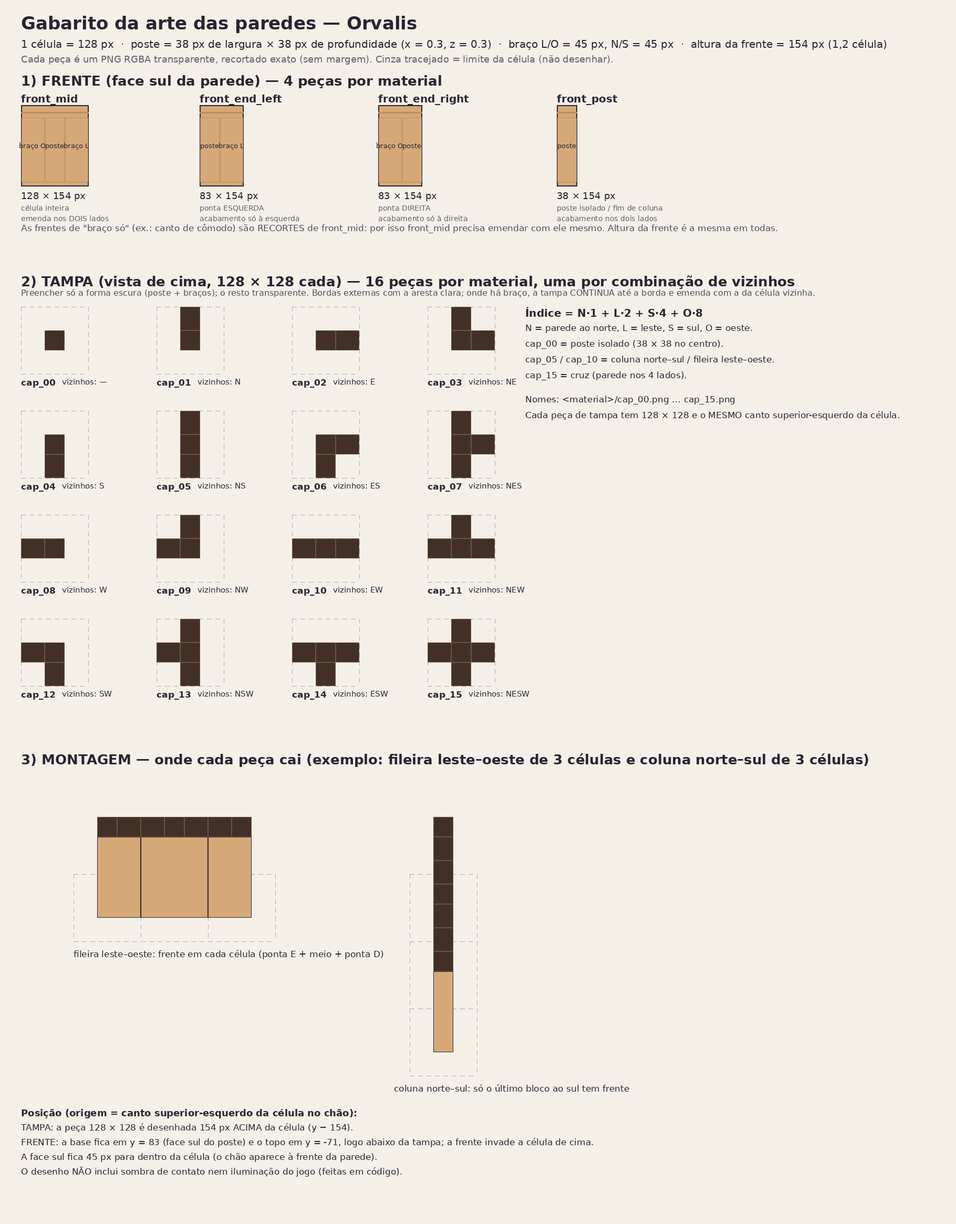
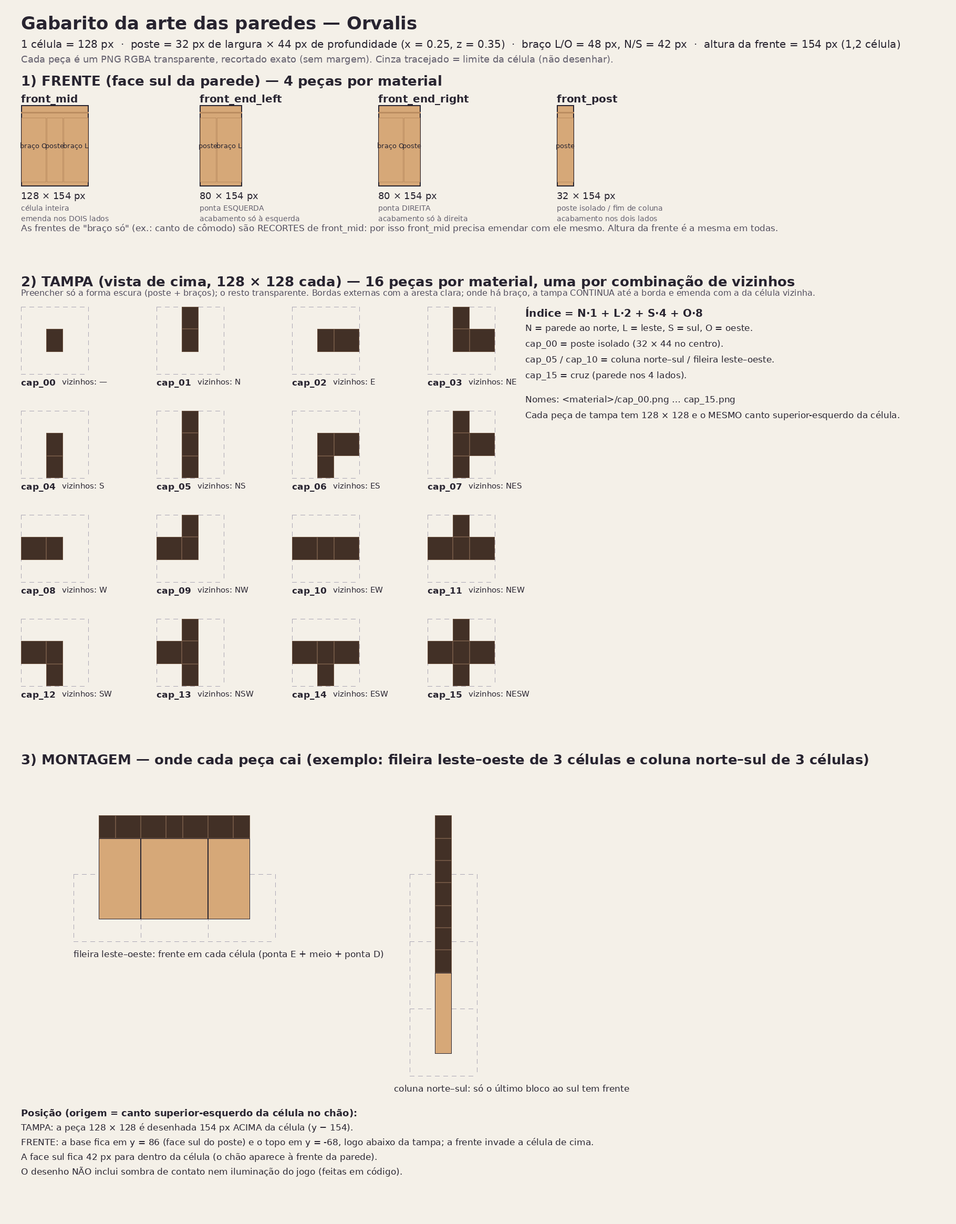
Orvalis v0.93.18: espessura das paredes fechada em 0,25 / 0,35 e contrato gerado
O dono do produto fechou a espessura (faixas e poste 0,25; tampa 0,35). O padrao do
codigo muda e o gabarito e o CONTRATO.md sao regerados com a medida (poste 32 x 44
px, bracos 48 e 42, frente 154). O contrato passa a ser gerado de CONTRATO.tpl.md
por make-wall-guide.py, para os numeros nunca divergirem do codigo.

Claude-Session: https://claude.ai/code/session_01KGdgomm438trDHTLPLqJmv

diff --git a/src/world/walls.test.ts b/src/world/walls.test.ts
@@ -1,7 +1,7 @@
 import { describe, expect, it } from 'vitest';
 import {
   clampWallThickness, DEFAULT_WALL_THICKNESS, parseWallThickness,
-  CAP_E, CAP_N, CAP_S, CAP_W, INNER_NE, INNER_NW, INNER_SE, INNER_SW, WALL_CAP_PIECES, WALL_THICKNESS,
+  CAP_E, CAP_N, CAP_S, CAP_W, INNER_NE, INNER_NW, INNER_SE, INNER_SW, WALL_CAP_PIECES,
   wallCapMask, wallFront, wallFootprint, wallFrontRanges, wallInnerCorners, wallNeighbors, wallPiece, wallThin,
 } from './walls';
 
@@ -82,12 +82,15 @@ describe('autotile das paredes (ADR 0027)', () => {
   describe('placa fina (geometria do autotile)', () => {
     const area = (rs: Array<{ x0: number; x1: number; z0: number; z1: number }>) => rs.reduce((a, r) => a + (r.x1 - r.x0) * (r.z1 - r.z0), 0);
     const nbOf = (rows: string[], x: number, y: number) => wallNeighbors(grid(rows), x, y);
-    const C0 = (1 - WALL_THICKNESS) / 2;
-    const C1 = (1 + WALL_THICKNESS) / 2;
+    const { x: TX, z: TZ } = DEFAULT_WALL_THICKNESS;
+    const C0 = (1 - TX) / 2;
+    const C1 = (1 + TX) / 2;
+    const Z0 = (1 - TZ) / 2;
+    const Z1 = (1 + TZ) / 2;
 
     it('poste isolado: um quadrado fino no centro da célula', () => {
       const f = wallFootprint(nbOf(['.#.'], 1, 0));
-      expect(f).toEqual([{ x0: C0, x1: C1, z0: C0, z1: C1 }]);
+      expect(f).toEqual([{ x0: C0, x1: C1, z0: Z0, z1: Z1 }]);
       expect(wallFrontRanges(nbOf(['.#.'], 1, 0))).toEqual([[C0, C1]]);
     });
 
@@ -115,8 +118,8 @@ describe('autotile das paredes (ADR 0027)', () => {
       const f = wallFootprint(cross);
       expect(f).toHaveLength(5);
       for (const r of f) { expect(r.x0).toBeGreaterThanOrEqual(0); expect(r.x1).toBeLessThanOrEqual(1); expect(r.z0).toBeGreaterThanOrEqual(0); expect(r.z1).toBeLessThanOrEqual(1); }
-      const T2 = WALL_THICKNESS;
-      expect(area(f)).toBeCloseTo(T2 * T2 + 4 * T2 * (1 - T2) / 2, 9); // poste + 4 braços de (1 − T)/2
+      // poste + 2 braços norte/sul (x × (1 − z)/2) + 2 braços leste/oeste (z × (1 − x)/2)
+      expect(area(f)).toBeCloseTo(TX * TZ + 2 * TX * (1 - TZ) / 2 + 2 * TZ * (1 - TX) / 2, 9);
     });
 
     it('thin: sem vizinho a leste/oeste', () => {
@@ -127,8 +130,8 @@ describe('autotile das paredes (ADR 0027)', () => {
 
   describe('espessura ajustável por eixo', () => {
     const is = (rows: string[]) => grid(rows);
-    it('o padrão é 0,3 nos dois eixos (o valor aprovado no protótipo)', () => {
-      expect(DEFAULT_WALL_THICKNESS).toEqual({ x: 0.3, z: 0.3 });
+    it('o padrão é x 0,25 · z 0,35 (escolhido pelo dono do produto em 13/11/2026)', () => {
+      expect(DEFAULT_WALL_THICKNESS).toEqual({ x: 0.25, z: 0.35 });
     });
 
     it('x muda a largura do poste e das faixas norte–sul; z muda a profundidade da tampa', () => {

diff --git a/src/world/walls.ts b/src/world/walls.ts
@@ -2,7 +2,7 @@
  * Autotile das paredes (ADR 0027): funções PURAS (sem DOM, sem `Math.random`) que, olhando os vizinhos, dizem a forma e qual
  * peça de arte desenhar. Fonte de verdade da forma; o `render/` só escolhe a imagem/geometria. Vale para Santuário e Mundo.
  *
- * Modelo (medido numa cena do Core Keeper): a parede é uma **placa fina** de espessura `WALL_THICKNESS` (~0,3 célula) nos dois
+ * Modelo (medido numa cena do Core Keeper): a parede é uma **placa fina** de espessura `DEFAULT_WALL_THICKNESS` (x 0,25 · z 0,35, por eixo) nos dois
  * sentidos, no centro da célula: um poste central mais um braço até a borda da célula em cada lado que tem parede vizinha.
  * A colisão continua sendo a célula inteira (só o desenho é fino). Daí saem sozinhos os comportamentos observados:
  * - fileira leste–oeste: faces sul de célula inteira (frente larga, de `WORLD_SCALE.wall` de altura);
@@ -17,9 +17,8 @@
  * fileiras leste–oeste (e onde a face sul fica dentro da célula). Medido no Core Keeper: faixa fina ~0,2–0,3 e tampa ~0,35.
  */
 export interface WallThickness { x: number; z: number }
-export const DEFAULT_WALL_THICKNESS: WallThickness = { x: 0.3, z: 0.3 };
-/** Atalho do valor padrão (mesmo nos dois eixos). */
-export const WALL_THICKNESS = DEFAULT_WALL_THICKNESS.x;
+/** Valor escolhido pelo dono do produto em 13/11/2026 (comparando `?espessura=` no protótipo): faixa 0,25 e tampa 0,35. */
+export const DEFAULT_WALL_THICKNESS: WallThickness = { x: 0.25, z: 0.35 };
 
 /** Limita a espessura a um intervalo que ainda forma parede (0,1 a 0,9 da célula). */
 export function clampWallThickness(t: WallThickness): WallThickness {

diff --git a/scripts/make-wall-guide.py b/scripts/make-wall-guide.py
@@ -2,17 +2,19 @@
 (world/walls.ts + render/worldScale.ts), para a especificação (assets-src/paredes/CONTRATO.md) nunca divergir do jogo.
 
 Medidas (1 célula = CELL px), com a espessura de cada eixo em células (`--tx` largura das faixas e do poste; `--tz` profundidade da
-tampa); o padrão 0,3 / 0,3 dá: poste 38 px, braço 45 px, altura da frente 1,2 célula = 154 px.
-Uso: python3 scripts/make-wall-guide.py [--tx 0.3] [--tz 0.3] [--saida assets-src/paredes/gabarito.png]
+tampa); o padrão 0,25 / 0,35 (escolhido em 13/11/2026) dá: poste 32 × 44 px, braços 48 e 42 px, altura da frente 1,2 célula = 154 px.
+Gera também `assets-src/paredes/CONTRATO.md` a partir de `CONTRATO.tpl.md` (os números do contrato saem das mesmas medidas).
+Uso: python3 scripts/make-wall-guide.py [--tx 0.25] [--tz 0.35] [--saida assets-src/paredes/gabarito.png] [--sem-contrato]
 """
 import argparse
 
 from PIL import Image, ImageDraw, ImageFont
 
 ap = argparse.ArgumentParser()
-ap.add_argument('--tx', type=float, default=0.3, help='largura das faixas norte–sul e do poste (células)')
-ap.add_argument('--tz', type=float, default=0.3, help='profundidade da tampa das fileiras leste–oeste (células)')
+ap.add_argument('--tx', type=float, default=0.25, help='largura das faixas norte–sul e do poste (células)')
+ap.add_argument('--tz', type=float, default=0.35, help='profundidade da tampa das fileiras leste–oeste (células)')
 ap.add_argument('--saida', default='assets-src/paredes/gabarito.png')
+ap.add_argument('--sem-contrato', action='store_true', help='não regerar o CONTRATO.md')
 args = ap.parse_args()
 
 CELL = 128
@@ -155,3 +157,18 @@ text(40, gy + 3 * CELL + 172, 'O desenho NÃO inclui sombra de contato nem ilumi
 
 im.save(OUT)
 print(OUT, im.size)
+
+if not args.sem_contrato:
+    fmt = lambda v: f'{v:g}'.replace('.', ',')
+    tokens = {
+        'TX': TX, 'TZ': TZ, 'TXC': fmt(args.tx), 'TZC': fmt(args.tz), 'ARMX': ARM, 'ARMZ': ARMZ, 'H': H,
+        'ENDW': CELL - C0, 'C0': C0, 'C1': C1, 'C1M1': C1 - 1, 'ARMXM1': ARM - 1,
+        'Z0': Z0, 'Z1': Z1, 'Z0M1': Z0 - 1, 'Z1M1': Z1 - 1, 'YTOP': Z1 - H, 'INSIDE': CELL - Z1,
+    }
+    text_tpl = open('assets-src/paredes/CONTRATO.tpl.md', encoding='utf-8').read()
+    for k, v in tokens.items():
+        text_tpl = text_tpl.replace(f'<<{k}>>', str(v))
+    assert '<<' not in text_tpl, 'token sem valor no modelo do contrato'
+    header = '<!-- GERADO por scripts/make-wall-guide.py a partir de CONTRATO.tpl.md: não edite à mão. -->\n\n'
+    open('assets-src/paredes/CONTRATO.md', 'w', encoding='utf-8').write(header + text_tpl)
+    print('assets-src/paredes/CONTRATO.md')

diff --git a/assets-src/paredes/CONTRATO.md b/assets-src/paredes/CONTRATO.md
@@ -1,24 +1,26 @@
+<!-- GERADO por scripts/make-wall-guide.py a partir de CONTRATO.tpl.md: não edite à mão. -->
+
 # Contrato de arte — Paredes (Orvalis)
 
-Especificação para criar a arte das paredes. Acompanha o **`gabarito.png`** (gerado das mesmas medidas do código por
-`scripts/make-wall-guide.py`; se alguma medida mudar, o gabarito é regerado). Decisões: ADR 0027 (paredes) e ADR 0028 (escala).
+Especificação para criar a arte das paredes. Acompanha o **`gabarito.png`**. Os dois são **gerados das mesmas medidas do código** por `scripts/make-wall-guide.py` a partir de
+`CONTRATO.tpl.md` (não edite o `CONTRATO.md` à mão: edite o modelo e rode o script). Decisões: ADR 0027 (paredes) e ADR 0028 (escala).
 
 ## 1. O que é uma parede
-Uma parede é uma **placa fina** no centro da célula (não um cubo): um **poste** central e **braços** até a borda em cada lado que tem
-parede vizinha. A colisão é a célula inteira; só o desenho é fino. Por isso:
+Uma parede é uma **placa fina** no centro da célula (não um cubo): um **poste** central (32 px de largura × 44 px de profundidade)
+e **braços** até a borda em cada lado que tem parede vizinha. A colisão é a célula inteira; só o desenho é fino. Por isso:
 - **fileira leste–oeste:** a frente aparece em todos os blocos (frente larga, de célula inteira);
 - **fileira norte–sul:** é uma faixa fina e **só o último bloco ao sul mostra a frente** (fina); os outros mostram só a tampa;
 - **bloco sozinho:** um poste fino.
 O jogador vê **a frente** (face voltada para o sul) e **a tampa** (o topo, visto de cima). As laterais não aparecem.
 
-> **Aberto:** a espessura (38 px hoje) pode mudar antes da arte começar (o dono do produto está comparando `?espessura=` no protótipo). Os números abaixo valem para 0,3 / 0,3; se mudarem, o gabarito é regerado (`make-wall-guide.py --tx --tz`) e este contrato é atualizado.
-
 ## 2. Medidas (1 célula = 128 px)
 | Item | Valor |
 |---|---|
 | Célula | 128 × 128 px |
-| Espessura da placa (poste) | **38 px** (0,3 célula) |
-| Braço (do poste à borda da célula) | **45 px** de cada lado (45 + 38 + 45 = 128) |
+| Poste: largura (eixo x) | **32 px** (0,25 célula) — largura das faixas norte–sul e do poste |
+| Poste: profundidade (eixo z) | **44 px** (0,35 célula) — profundidade da tampa das fileiras leste–oeste |
+| Braço leste/oeste (do poste à borda) | **48 px** de cada lado (48 + 32 + 48 = 128) |
+| Braço norte/sul (do poste à borda) | **42 px** de cada lado (42 + 44 + 42 = 128) |
 | Altura da frente | **154 px** (1,2 célula ≈ a altura do personagem) |
 
 Resolução mestre = 128 px por célula; o jogo reduz conforme o zoom. Entregar **nessa escala exata**.
@@ -31,11 +33,11 @@ Cada material de parede tem **20 imagens** (PNG RGBA, fundo transparente, **reco
 | Arquivo | Tamanho | Uso |
 |---|---|---|
 | `front_mid.png` | 128 × 154 | bloco do meio de uma fileira leste–oeste; **emenda com ele mesmo** nos dois lados |
-| `front_end_left.png` | 83 × 154 | ponta ESQUERDA (começa no lado oeste do poste, com acabamento/aresta à esquerda; emenda à direita) |
-| `front_end_right.png` | 83 × 154 | ponta DIREITA (acabamento à direita; emenda à esquerda) |
-| `front_post.png` | 38 × 154 | poste isolado e fim de coluna; acabamento nos dois lados |
+| `front_end_left.png` | 80 × 154 | ponta ESQUERDA (começa no lado oeste do poste, com acabamento/aresta à esquerda; emenda à direita) |
+| `front_end_right.png` | 80 × 154 | ponta DIREITA (acabamento à direita; emenda à esquerda) |
+| `front_post.png` | 32 × 154 | poste isolado e fim de coluna; acabamento nos dois lados |
 
-As frentes de "só o braço" (ex.: canto de cômodo) são **recortes** de `front_mid` (colunas 0–44 = braço oeste; 83–127 = braço leste):
+As frentes de "só o braço" (ex.: canto de cômodo) são **recortes** de `front_mid` (colunas 0–47 = braço oeste; 80–127 = braço leste):
 não precisam de arte própria, mas `front_mid` **tem de poder ser cortado** nesses pontos sem emenda visível.
 
 **Tampa (16)** — `cap_00.png` … `cap_15.png`, todas **128 × 128**, vista de cima. Índice = **N·1 + L·2 + S·4 + O·8**
@@ -45,8 +47,8 @@ pintada; o resto fica transparente. Exemplos: `cap_00` poste isolado; `cap_05` c
 
 ## 4. Emendas e acabamento
 - **Onde há braço, a tampa continua até a borda da célula e emenda com a da vizinha** (mesma pintura nas linhas/colunas de
-  contato): braço leste ocupa x = 83–127 e braço oeste x = 0–44 (faixa y = 45–82); braço norte y = 0–44 e braço sul y = 83–127
-  (faixa x = 45–82). Esses trechos devem ser **idênticos em todas as peças** que tenham o mesmo braço.
+  contato): braço leste ocupa x = 80–127 e braço oeste x = 0–47 (faixa y = 42–85); braço norte y = 0–41 e braço sul
+  y = 86–127 (faixa x = 48–79). Esses trechos devem ser **idênticos em todas as peças** que tenham o mesmo braço.
 - **Onde NÃO há braço**, a borda é externa: leve aresta clara (2–3 px) e/ou contorno.
 - **Contorno:** fino, na cor escura do próprio material (como os blocos do jogo), sem preto puro.
 - **Textura nunca gira nem espelha por célula:** desenhe na direção final. Variedade = variações enviadas (ver 6).
@@ -71,25 +73,25 @@ x = 127) de `front_mid`, para trocar de uma para outra sem emenda e quebrar a re
 ## 7. Montagem (onde cada peça cai)
 Origem = canto superior-esquerdo da célula no chão (ver gabarito, seção 3):
 - **Tampa:** a peça 128 × 128 é desenhada **154 px acima** da célula (y − 154).
-- **Frente:** base em **y = 83** (face sul do poste) e topo em **y = 83 − 154 = −71**, encostada embaixo da tampa; invade a célula de cima.
-- A face sul fica 45 px para dentro da célula: o chão aparece à frente da parede.
+- **Frente:** base em **y = 86** (face sul do poste) e topo em **y = 86 − 154 = -68**, encostada embaixo da tampa; invade a célula de cima.
+- A face sul fica 42 px para dentro da célula: o chão aparece à frente da parede.
 
 ## 8. Conferência (antes de entregar)
 - [ ] 20 arquivos por material, nomes exatos, PNG RGBA, 128 px/célula.
-- [ ] Tamanhos exatos (frente 154 de altura; larguras 128/83/83/38; tampas 128 × 128).
-- [ ] `front_mid` repetido 3× forma uma fileira contínua; cortado em 0–44 / 83–127 não mostra emenda.
+- [ ] Tamanhos exatos (frente 154 de altura; larguras 128/80/80/32; tampas 128 × 128).
+- [ ] `front_mid` repetido 3× forma uma fileira contínua; cortado em 0–47 / 80–127 não mostra emenda.
 - [ ] Tampas com o mesmo braço têm o trecho do braço idêntico (monte uma cruz `cap_15` ao lado de `cap_10`: sem degrau).
 - [ ] Sem sombra projetada, sem brilho, sem texto, sem marca d'água.
 
 ## 9. Depois (fora deste contrato)
 - **Porta** (aberta e fechada, encaixada na fileira leste–oeste): contrato à parte.
 - Estados de dano (rachaduras) e variações de tampa.
-- Se a **espessura** mudar (hoje 38 px), as peças que dependem dela são `front_end_*`, `front_post` e todas as `cap_*`;
-  `front_mid` só muda se o poste mudar de posição. Por isso vale fechar a espessura antes de pintar tudo.
+- Se a **espessura** mudar (hoje 0,25 × 0,35, fechada pelo dono do produto em 13/11/2026), as peças que dependem dela são
+  `front_end_*`, `front_post` e todas as `cap_*`; `front_mid` só muda se o poste mudar de posição.
 
 ## 10. Brief curto (para colar)
 > Arte de paredes para um jogo 2D de fantasia (vista 3/4, estilo ilustração digital RPG/anime, referência Core Keeper). A parede é
-> uma placa fina (38 px de espessura numa célula de 128 px), de 154 px de altura. Entregar, por material (começando por tábuas de
-> carvalho e pedra), 4 frentes (128, 83, 83 e 38 px de largura × 154 de altura; a do meio emenda com ela mesma) e 16 tampas vistas
-> de cima (128 × 128, indexadas pelos vizinhos N/L/S/O, em forma de poste + braços de 45 px). Tampa escura, frente iluminada com
+> uma placa fina (poste de 32 × 44 px numa célula de 128 px), de 154 px de altura. Entregar, por material (começando por tábuas de
+> carvalho e pedra), 4 frentes (128, 80, 80 e 32 px de largura × 154 de altura; a do meio emenda com ela mesma) e 16 tampas vistas
+> de cima (128 × 128, indexadas pelos vizinhos N/L/S/O, em forma de poste + braços). Tampa escura, frente iluminada com
 > moldura e montantes. PNG transparente, recorte exato, sem sombra projetada nem iluminação. Ver gabarito.png.

diff --git a/assets-src/paredes/CONTRATO.tpl.md b/assets-src/paredes/CONTRATO.tpl.md
@@ -1,0 +1,95 @@
+# Contrato de arte — Paredes (Orvalis)
+
+Especificação para criar a arte das paredes. Acompanha o **`gabarito.png`**. Os dois são **gerados das mesmas medidas do código** por `scripts/make-wall-guide.py` a partir de
+`CONTRATO.tpl.md` (não edite o `CONTRATO.md` à mão: edite o modelo e rode o script). Decisões: ADR 0027 (paredes) e ADR 0028 (escala).
+
+## 1. O que é uma parede
+Uma parede é uma **placa fina** no centro da célula (não um cubo): um **poste** central (<<TX>> px de largura × <<TZ>> px de profundidade)
+e **braços** até a borda em cada lado que tem parede vizinha. A colisão é a célula inteira; só o desenho é fino. Por isso:
+- **fileira leste–oeste:** a frente aparece em todos os blocos (frente larga, de célula inteira);
+- **fileira norte–sul:** é uma faixa fina e **só o último bloco ao sul mostra a frente** (fina); os outros mostram só a tampa;
+- **bloco sozinho:** um poste fino.
+O jogador vê **a frente** (face voltada para o sul) e **a tampa** (o topo, visto de cima). As laterais não aparecem.
+
+## 2. Medidas (1 célula = 128 px)
+| Item | Valor |
+|---|---|
+| Célula | 128 × 128 px |
+| Poste: largura (eixo x) | **<<TX>> px** (<<TXC>> célula) — largura das faixas norte–sul e do poste |
+| Poste: profundidade (eixo z) | **<<TZ>> px** (<<TZC>> célula) — profundidade da tampa das fileiras leste–oeste |
+| Braço leste/oeste (do poste à borda) | **<<ARMX>> px** de cada lado (<<ARMX>> + <<TX>> + <<ARMX>> = 128) |
+| Braço norte/sul (do poste à borda) | **<<ARMZ>> px** de cada lado (<<ARMZ>> + <<TZ>> + <<ARMZ>> = 128) |
+| Altura da frente | **<<H>> px** (1,2 célula ≈ a altura do personagem) |
+
+Resolução mestre = 128 px por célula; o jogo reduz conforme o zoom. Entregar **nessa escala exata**.
+
+## 3. Peças por material
+Cada material de parede tem **20 imagens** (PNG RGBA, fundo transparente, **recortadas exatas, sem margem**), em
+`assets-src/paredes/<material>/`:
+
+**Frente (4)** — altura <<H>> px em todas:
+| Arquivo | Tamanho | Uso |
+|---|---|---|
+| `front_mid.png` | 128 × <<H>> | bloco do meio de uma fileira leste–oeste; **emenda com ele mesmo** nos dois lados |
+| `front_end_left.png` | <<ENDW>> × <<H>> | ponta ESQUERDA (começa no lado oeste do poste, com acabamento/aresta à esquerda; emenda à direita) |
+| `front_end_right.png` | <<ENDW>> × <<H>> | ponta DIREITA (acabamento à direita; emenda à esquerda) |
+| `front_post.png` | <<TX>> × <<H>> | poste isolado e fim de coluna; acabamento nos dois lados |
+
+As frentes de "só o braço" (ex.: canto de cômodo) são **recortes** de `front_mid` (colunas 0–<<ARMXM1>> = braço oeste; <<C1>>–127 = braço leste):
+não precisam de arte própria, mas `front_mid` **tem de poder ser cortado** nesses pontos sem emenda visível.
+
+**Tampa (16)** — `cap_00.png` … `cap_15.png`, todas **128 × 128**, vista de cima. Índice = **N·1 + L·2 + S·4 + O·8**
+(N/L/S/O = há parede ao norte/leste/sul/oeste). A forma é sempre o poste + os braços (ver o gabarito, seção 2). Só a forma é
+pintada; o resto fica transparente. Exemplos: `cap_00` poste isolado; `cap_05` coluna norte–sul; `cap_10` fileira leste–oeste;
+`cap_15` cruz.
+
+## 4. Emendas e acabamento
+- **Onde há braço, a tampa continua até a borda da célula e emenda com a da vizinha** (mesma pintura nas linhas/colunas de
+  contato): braço leste ocupa x = <<C1>>–127 e braço oeste x = 0–<<ARMXM1>> (faixa y = <<Z0>>–<<Z1M1>>); braço norte y = 0–<<Z0M1>> e braço sul
+  y = <<Z1>>–127 (faixa x = <<C0>>–<<C1M1>>). Esses trechos devem ser **idênticos em todas as peças** que tenham o mesmo braço.
+- **Onde NÃO há braço**, a borda é externa: leve aresta clara (2–3 px) e/ou contorno.
+- **Contorno:** fino, na cor escura do próprio material (como os blocos do jogo), sem preto puro.
+- **Textura nunca gira nem espelha por célula:** desenhe na direção final. Variedade = variações enviadas (ver 6).
+- A frente tem um **ritmo por célula**: moldura/aresta no topo e embaixo e um **montante (poste) entre painéis** a cada 128 px
+  (como na referência), de modo que `front_mid` repetido forme painéis alinhados.
+
+## 5. Luz e estilo
+- Estilo do jogo: **ilustração digital de fantasia (RPG/anime)**, vista 3/4, cores quentes e limpas; **referência: Core Keeper**
+  (paredes de madeira com painéis emoldurados e tampa escura).
+- **Frente iluminada** (cor cheia do material). **Tampa mais escura** (cerca de 40–55% da luminosidade da frente), quase sem textura,
+  com uma aresta clara fina na borda externa.
+- **Não pintar:** sombra projetada no chão, sombra de contato no pé, luz/brilho do ambiente, neblina. O jogo faz isso em código
+  (luz dinâmica); pintar duplicaria.
+
+## 6. Materiais e ordem de entrega
+1. **`tabuas`** — Parede de Tábuas (madeira de carvalho: tábuas verticais, moldura e montantes).
+2. **`pedra`** — Parede de Pedra (blocos de pedra/tijolo, juntas visíveis).
+3. Depois: os demais (celestial, cerejeira, bétula etc.), no mesmo padrão.
+**Variações (opcional, recomendado):** `front_mid_b.png` e `front_mid_c.png` (128 × <<H>>), com **as mesmas colunas de borda** (x = 0 e
+x = 127) de `front_mid`, para trocar de uma para outra sem emenda e quebrar a repetição.
+
+## 7. Montagem (onde cada peça cai)
+Origem = canto superior-esquerdo da célula no chão (ver gabarito, seção 3):
+- **Tampa:** a peça 128 × 128 é desenhada **<<H>> px acima** da célula (y − <<H>>).
+- **Frente:** base em **y = <<Z1>>** (face sul do poste) e topo em **y = <<Z1>> − <<H>> = <<YTOP>>**, encostada embaixo da tampa; invade a célula de cima.
+- A face sul fica <<INSIDE>> px para dentro da célula: o chão aparece à frente da parede.
+
+## 8. Conferência (antes de entregar)
+- [ ] 20 arquivos por material, nomes exatos, PNG RGBA, 128 px/célula.
+- [ ] Tamanhos exatos (frente <<H>> de altura; larguras 128/<<ENDW>>/<<ENDW>>/<<TX>>; tampas 128 × 128).
+- [ ] `front_mid` repetido 3× forma uma fileira contínua; cortado em 0–<<ARMXM1>> / <<C1>>–127 não mostra emenda.
+- [ ] Tampas com o mesmo braço têm o trecho do braço idêntico (monte uma cruz `cap_15` ao lado de `cap_10`: sem degrau).
+- [ ] Sem sombra projetada, sem brilho, sem texto, sem marca d'água.
+
+## 9. Depois (fora deste contrato)
+- **Porta** (aberta e fechada, encaixada na fileira leste–oeste): contrato à parte.
+- Estados de dano (rachaduras) e variações de tampa.
+- Se a **espessura** mudar (hoje <<TXC>> × <<TZC>>, fechada pelo dono do produto em 13/11/2026), as peças que dependem dela são
+  `front_end_*`, `front_post` e todas as `cap_*`; `front_mid` só muda se o poste mudar de posição.
+
+## 10. Brief curto (para colar)
+> Arte de paredes para um jogo 2D de fantasia (vista 3/4, estilo ilustração digital RPG/anime, referência Core Keeper). A parede é
+> uma placa fina (poste de <<TX>> × <<TZ>> px numa célula de 128 px), de <<H>> px de altura. Entregar, por material (começando por tábuas de
+> carvalho e pedra), 4 frentes (128, <<ENDW>>, <<ENDW>> e <<TX>> px de largura × <<H>> de altura; a do meio emenda com ela mesma) e 16 tampas vistas
+> de cima (128 × 128, indexadas pelos vizinhos N/L/S/O, em forma de poste + braços). Tampa escura, frente iluminada com
+> moldura e montantes. PNG transparente, recorte exato, sem sombra projetada nem iluminação. Ver gabarito.png.

diff --git a/docs/NEXT_STEPS.md b/docs/NEXT_STEPS.md
@@ -37,7 +37,7 @@ primeiro**. Cada fase fecha com `tsc`, testes, captura de tela, docs e PR de ver
    WebGL no iframe do Artifact. 6. **Fase 6 — virada:** 3D padrão, 2D de reserva por uma versão, depois remover a duplicação.
 - **Escala do mundo (ADR 0028, aceita na v0.93.14: relações do Core Keeper, K = 1) — aplicada no Santuário.** Falta: aplicar K = 1 à vista do Santuário (`OBLIQUE_K`), reproporcionar a Deusa e depois as demais espécies, e refazer a frente dos blocos (quadrada). O Mundo adota a escala na migração do render.
 - **Referência Core Keeper (a explorar):** paredes do sul/laterais finas para não esconder o cômodo; tampa escura; luz dinâmica e neblina escura como parte do clima; bordas de terreno orgânicas; decoração pequena e densa.
-- **Paredes (ADR 0027): W0 teste ✅, W2 domínio ✅ (v0.93.15), protótipo de autotile em cores lisas ✅ (v0.93.16, `?mundo=santuario&paredes=autotile`; modelo de placa fina de 0,3).** Modelo validado pelo dono do produto; **especificação de arte pronta (`assets-src/paredes/CONTRATO.md` + `gabarito.png`), mas o dono do produto quer fechar a espessura antes de mandar pintar: comparar valores com `&espessura=x,z` (v0.93.17), escolher, regerar o gabarito (`make-wall-guide.py --tx --tz`) e atualizar os números do contrato.** Falta: W1 arte (frente 4 variantes, tampa 16 peças + cantos internos, porta), W3 render (frente + tampa no Three.js, oclusão), perfil/receita para o jogador alcançar as paredes, sincronizar o pacote do servidor, W4 migração e remoção do mármore V2/V3, W5 Mundo. Antigas anotações: W1 arte (frente 4 variantes, tampa 16 peças, porta); W2 domínio (`wall` no `World`, autotile puro, save); W3 render; W4 migração e remoção do mármore V2/V3; W5 Mundo (casas e interiores).
+- **Paredes (ADR 0027): W0 teste ✅, W2 domínio ✅ (v0.93.15), protótipo de autotile em cores lisas ✅ (v0.93.16, `?mundo=santuario&paredes=autotile`; modelo de placa fina de 0,3).** Modelo validado pelo dono do produto; **especificação de arte pronta (`assets-src/paredes/CONTRATO.md` + `gabarito.png`), **espessura fechada em 0,25 / 0,35 (v0.93.18) e contrato regerado: o dono do produto pode mandar pintar.** Falta: W1 arte (frente 4 variantes, tampa 16 peças + cantos internos, porta), W3 render (frente + tampa no Three.js, oclusão), perfil/receita para o jogador alcançar as paredes, sincronizar o pacote do servidor, W4 migração e remoção do mármore V2/V3, W5 Mundo. Antigas anotações: W1 arte (frente 4 variantes, tampa 16 peças, porta); W2 domínio (`wall` no `World`, autotile puro, save); W3 render; W4 migração e remoção do mármore V2/V3; W5 Mundo (casas e interiores).
 - **Vista oblíqua aprovada e padrão** (v0.93.10; `?vista=inclinada` é a reserva). Pendente: contorno dos blocos (shader), partículas, seleção em colchetes, e **redesenhar as paredes** (modelo e arte a decidir com o dono do produto; o mármore V2/V3 é provisório). Arte a enviar: frente própria de cada bloco (Material V2) e o conjunto de paredes.
 - Física sólida no Mundo só entra no piloto, atrás de flag (muda a jogabilidade).
 

diff --git a/docs/adr/0027-paredes-nivel-unico-autotile.md b/docs/adr/0027-paredes-nivel-unico-autotile.md
@@ -18,7 +18,7 @@ altura, tampa escura em cima, personagem mais alta que a parede (a cabeça apare
   a frente cheia aparece nas paredes cuja face dá para o interior (ao norte do cômodo).
 - **Placa fina (medida no Core Keeper, v0.93.16):** a parede é uma placa de espessura `WALL_THICKNESS` ≈ 0,3 célula nos dois
   sentidos, no centro da célula: um poste central mais um braço até a borda em cada lado com parede vizinha (`wallFootprint`).
-  A espessura tem **dois valores** (`WallThickness`: `x` faixas/poste, `z` tampa), hoje 0,3 / 0,3 e ajustáveis para casar com a referência (`?espessura=`). A **colisão continua sendo a célula inteira**; só o desenho é fino. Daí saem sozinhos os comportamentos observados:
+  A espessura tem **dois valores** (`WallThickness`: `x` faixas/poste, `z` tampa), fechados em **0,25 / 0,35** pelo dono do produto (13/11/2026; ajustáveis por `?espessura=` só para teste). A **colisão continua sendo a célula inteira**; só o desenho é fino. Daí saem sozinhos os comportamentos observados:
   fileira leste–oeste com frente de célula inteira (altura ≈ 1,2); fileira norte–sul como faixa fina em que **só o último
   bloco ao sul mostra a frente** (fina), os demais só mostram a tampa; bloco isolado = poste fino.
 - **Autotile por vizinhança** (função pura `world/walls.ts`, testada):
@@ -32,6 +32,7 @@ altura, tampa escura em cima, personagem mais alta que a parede (a cabeça apare
 - **Mármore V2/V3 aposentado** depois da migração: remover `sanctuaryMarble*`, `sanctuaryV3Surfaces`, `adaptiveWalls`,
   `marblePlacements`/`marbleV3Bases` do mundo e do save (`SAVE_VERSION` sobe; blocos antigos viram parede do mesmo material ou
   somem, a decidir na migração) e `MAX_STACK` volta a valer só para cubos de terreno.
+- **Espessura final: x 0,25 · z 0,35** (v0.93.18): poste 32 × 44 px na arte de 128 px por célula.
 - **Teste de escala** (`render/sanctuaryWallProportionTest.ts`, v0.93.12): compara a escala atual e a nova (ADR 0028) lado a lado,
   com cubo, parede de 2 cubos, régua de 1 m e personagem de referência. Descartável; sem lógica de jogo.
 

diff --git a/docs/domains/world.md b/docs/domains/world.md
@@ -3,7 +3,7 @@
 **Fonte de verdade:** `World` (estado em execução) + `WorldGenerator` (terreno não editado, puro por seed).
 
 ## Paredes (W2, v0.93.15, ADR 0027)
-Bloco de **nível único** (`shape: 'wall'`, `Block.WALL_PLANKS`/`WALL_STONE`): sólido, no nível 0, sem empilhar (a regra de `placementLevel` já cobre: só cubo sobre cubo empilha) e nunca degrau (`standHeight` nulo). A forma sai de `world/walls.ts` (puro): a parede é uma **placa fina** (`WallThickness` por eixo, padrão 0,3 / 0,3: `x` = faixas e poste, `z` = tampa; poste central + braços até a borda; colisão na célula inteira) com frente (`single`/`end`/`left`/`mid`/`right`; `null` na continuação de uma fileira norte–sul, `wallFrontRanges` dá as faixas expostas), tampa de 16 peças (máscara N=1, E=2, S=4, W=8), cantos internos e `wallThin`. `World.isWallAt` e `World.wallPieceAt(x, y)` expõem a peça ao render. Nenhum perfil as lista ainda (sem arte nem receita).
+Bloco de **nível único** (`shape: 'wall'`, `Block.WALL_PLANKS`/`WALL_STONE`): sólido, no nível 0, sem empilhar (a regra de `placementLevel` já cobre: só cubo sobre cubo empilha) e nunca degrau (`standHeight` nulo). A forma sai de `world/walls.ts` (puro): a parede é uma **placa fina** (`WallThickness` por eixo, padrão 0,25 / 0,35: `x` = faixas e poste, `z` = tampa; poste central + braços até a borda; colisão na célula inteira) com frente (`single`/`end`/`left`/`mid`/`right`; `null` na continuação de uma fileira norte–sul, `wallFrontRanges` dá as faixas expostas), tampa de 16 peças (máscara N=1, E=2, S=4, W=8), cantos internos e `wallThin`. `World.isWallAt` e `World.wallPieceAt(x, y)` expõem a peça ao render. Nenhum perfil as lista ainda (sem arte nem receita).
 
 ## Modelo
 - Célula: **chão** + níveis de pilha (`Chunk.levels`, `World.getLevel`): **objeto nível 0** e **segundo cubo no nível 1**

diff --git a/docs/OPERATIONS.md b/docs/OPERATIONS.md
@@ -167,7 +167,7 @@ desenhos por pedaços conectados (copas que cruzam a divisa vêm inteiras) e des
 [--grid <png>]` → `interior-<id>.png` a 64 px por célula (grade de `InteriorDef.map`) → `optimize-assets.py`. A prévia
 `--grid` pinta de vermelho as células bloqueadas e de azul o capacho, para conferir o mapa sobre a arte.
 
-**Arte das paredes** (W1, ADR 0027; ainda sem pipeline de build — vem na W3): contrato e gabarito em `assets-src/paredes/` (`CONTRATO.md`, `gabarito.png`; `python3 scripts/make-wall-guide.py [--tx 0.3] [--tz 0.3]` regera o gabarito a partir das medidas do código e da espessura escolhida). Entrega por material em `assets-src/paredes/<material>/`: `front_mid`, `front_end_left`, `front_end_right`, `front_post`, `cap_00`…`cap_15` (PNG RGBA, 128 px por célula).
+**Arte das paredes** (W1, ADR 0027; ainda sem pipeline de build — vem na W3): contrato e gabarito em `assets-src/paredes/` (`CONTRATO.md`, `gabarito.png`; `python3 scripts/make-wall-guide.py [--tx 0.25] [--tz 0.35]` regera o gabarito **e** o `CONTRATO.md` (a partir de `CONTRATO.tpl.md`; não edite o contrato à mão)). Entrega por material em `assets-src/paredes/<material>/`: `front_mid`, `front_end_left`, `front_end_right`, `front_post`, `cap_00`…`cap_15` (PNG RGBA, 128 px por célula).
 
 **Ícone de item** (v0.93.7): `python3 scripts/make-item-icon.py assets-src/<item>.png src/assets/icon-<item>.webp [--size 64]` (recorta, centraliza e reduz; WebP sem perdas) → import e entrada em `itemIcons` de `render/art/principal.ts`.
 

diff --git a/docs/CHANGELOG.md b/docs/CHANGELOG.md
@@ -1,5 +1,10 @@
 # Changelog
 
+## Orvalis v0.93.18 — Espessura das paredes fechada em 0,25 / 0,35; contrato gerado (13/11/2026)
+- **Decisão do dono do produto:** `DEFAULT_WALL_THICKNESS` = `{ x: 0.25, z: 0.35 }` (faixas e poste de 0,25; tampa de 0,35). A foto do protótipo no iPad confirmou a leitura.
+- **Gabarito e contrato regerados** com a medida: poste 32 × 44 px, braços 48 (L/O) e 42 (N/S), frentes 128/80/80/32 × 154, face sul a 42 px da borda da célula. O `CONTRATO.md` agora é **gerado** por `scripts/make-wall-guide.py` a partir de `CONTRATO.tpl.md` (números sempre iguais aos do gabarito e do código); `--tx/--tz` mudam a espessura.
+- Testes ajustados ao novo padrão (27 de paredes). Sem mudança de protocolo, save ou servidor.
+
 ## Orvalis v0.93.17 — Espessura das paredes ajustável por eixo (`?espessura=x,z`) (13/11/2026)
 - **`WallThickness { x, z }`** em `world/walls.ts`: `x` = largura das faixas norte–sul e do poste; `z` = profundidade da tampa das fileiras leste–oeste (e a posição da face sul na célula). `wallFootprint` e `wallFrontRanges` recebem a espessura (padrão `DEFAULT_WALL_THICKNESS` = 0,3 / 0,3, o valor aprovado). `parseWallThickness` lê `0.25,0.35` (ou só `0.3`) e limita a 0,1–0,9. Testes novos (27 de paredes).
 - **Protótipo:** `?mundo=santuario&paredes=autotile&espessura=0.25,0.35` aplica a espessura nas paredes de cor lisa. Só teste; sem mudança de jogo, protocolo ou save.

diff --git a/docs/CURRENT_STATE.md b/docs/CURRENT_STATE.md
@@ -1,6 +1,6 @@
 # Estado atual
 
-_Atualizado em 2026-11-12 — v0.93.17 · jogo: **Orvalis** (`orvalis.pensamentos.online`)_
+_Atualizado em 2026-11-12 — v0.93.18 · jogo: **Orvalis** (`orvalis.pensamentos.online`)_
 
 Este documento descreve **só o que existe hoje**. O histórico por entrega está no [`CHANGELOG`](CHANGELOG.md); o diário
 técnico antigo (até a v0.80.0, com nomes de funções e versões de protocolo/salvamento) está em
@@ -10,7 +10,7 @@ uma seção por versão) e registre a mudança no `CHANGELOG`.
 ## Versões e números de referência
 | Item | Valor | Fonte |
 |---|---|---|
-| Versão do jogo | 0.93.17 | `package.json` |
+| Versão do jogo | 0.93.18 | `package.json` |
 | `PROTOCOL_VERSION` (multiplayer) | 20 | `src/net/protocol.ts` |
 | `SAVE_VERSION` (salvamento local) | 14 | `src/game/save.ts` |
 | Testes | Vitest e verificação automática no GitHub Actions | `npm test` |
